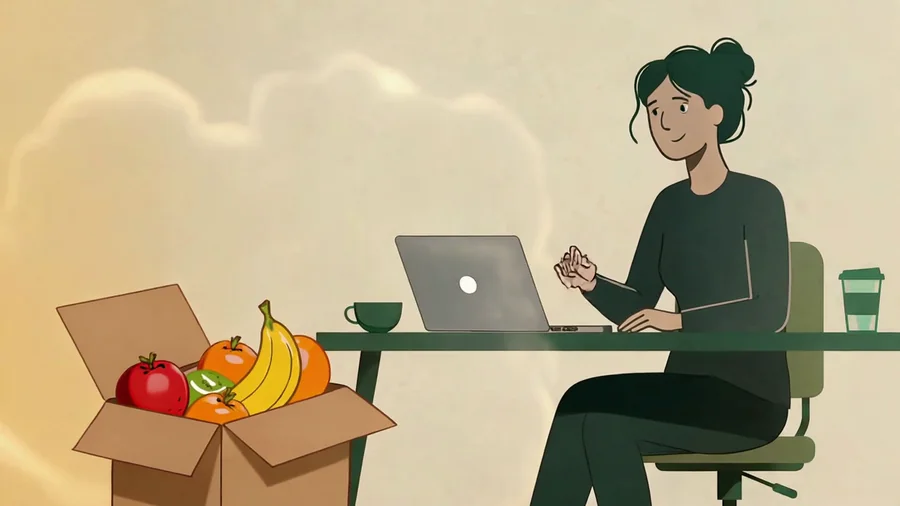
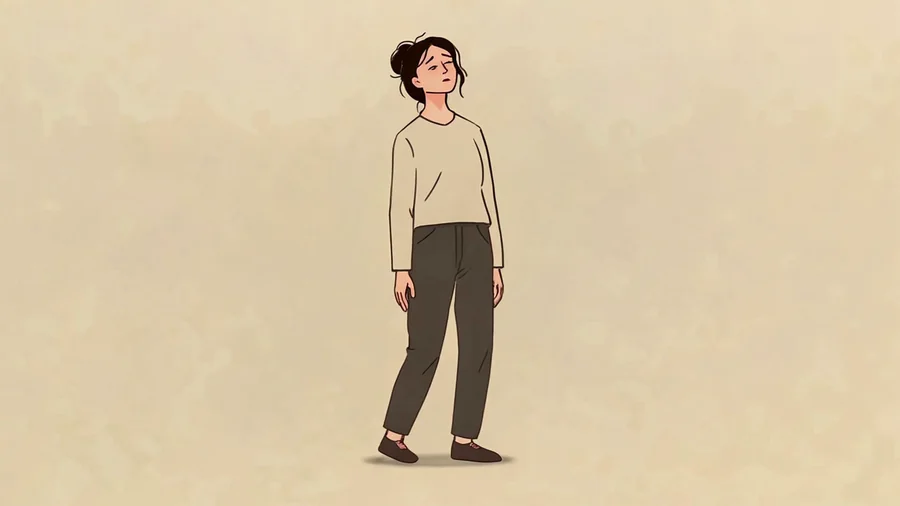
kampania: stojaca postac w grze zamiast siedzacej przy biurku - inna poza niz w suwaku, bez owocow w kadrze, od braku energii do pelnego naladowania; cache-bust v3

diff --git a/powrot-do-zywych-2.html b/powrot-do-zywych-2.html
@@ -431,7 +431,7 @@ html.pt-in body>:not(header) { animation: ptFadeIn 0.32s ease both; }
         </div>
         <div class="game-wrap">
             <div class="game-stage">
-                <img id="gameArt" src="gra-stan-0.webp?v=2" alt="Pracowniczka przy biurku, stan energii zmienia się wraz z kolejnymi rytuałami" width="900" height="506">
+                <img id="gameArt" src="gra-stan-0.webp?v=3" alt="Stojąca pracowniczka, jej postawa i energia zmieniają się wraz z kolejnymi rytuałami" width="900" height="506">
                 <div class="game-tray">
                     <button type="button" class="game-item" data-stage="1"><img src="icons/icon-crate-fruit.webp" alt=""><b>Owocowe Czwartki</b></button>
                     <button type="button" class="game-item" data-stage="2"><img src="icons/icon-sandwich-half.webp" alt=""><b>Kanapkowe Wtorki</b></button>
@@ -767,12 +767,12 @@ html.pt-in body>:not(header) { animation: ptFadeIn 0.32s ease both; }
     var level = 0;
 
     // wstepne wczytanie stanow, zeby nie migalo
-    for (var i = 1; i <= 4; i++) { var pre = new Image(); pre.src = 'gra-stan-' + i + '.webp?v=2'; }
+    for (var i = 1; i <= 4; i++) { var pre = new Image(); pre.src = 'gra-stan-' + i + '.webp?v=3'; }
 
     function render() {
         art.style.opacity = '0';
         setTimeout(function () {
-            art.src = 'gra-stan-' + level + '.webp?v=2';
+            art.src = 'gra-stan-' + level + '.webp?v=3';
             art.style.opacity = '1';
         }, 130);
         fill.style.width = (level / 4 * 100) + '%';
